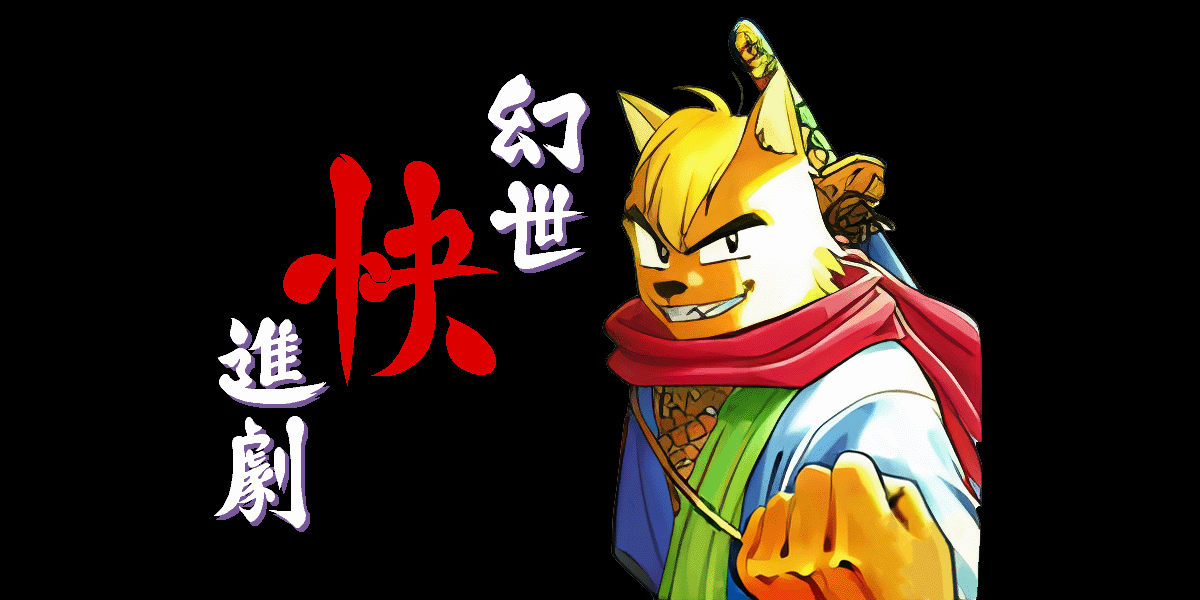
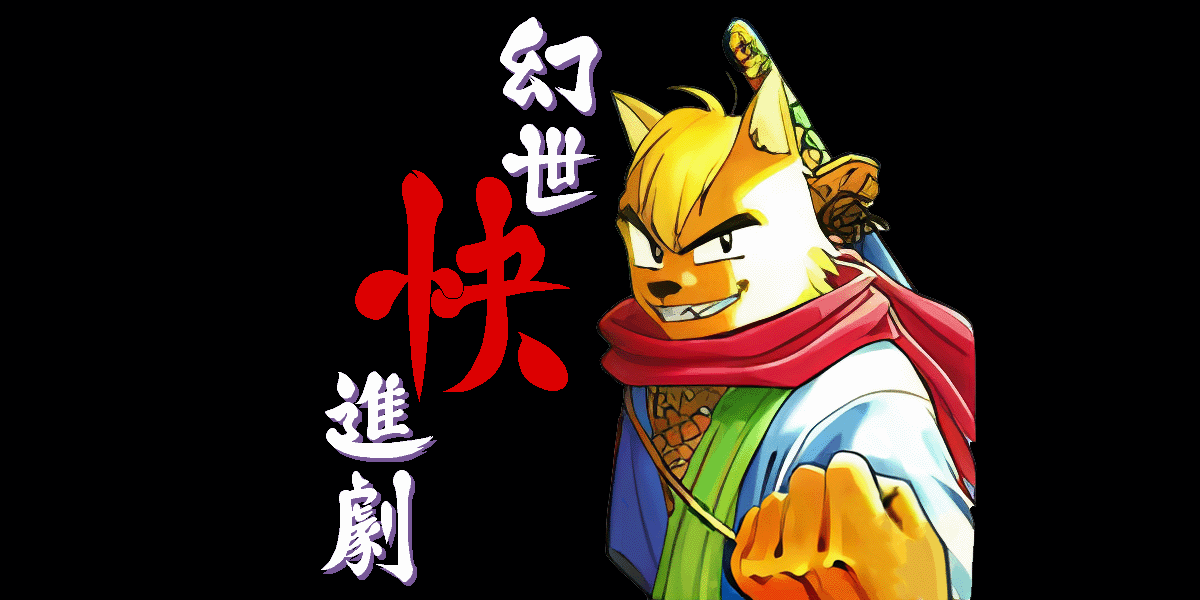
OG 이미지 배포 누락 수정, Twitter 카드·OG 메타데이터 보강

Changed region(s): [[0.185, 0.03, 0.8325, 1.0]]

diff --git a/index.html b/index.html
@@ -11,14 +11,24 @@
     <meta name="theme-color" content="#000000" />
     <meta name="description" content="환세쾌진극(Compile, 1996/97)을 웹 브라우저에서 바로 플레이할 수 있는 비영리 복원·보존 프로젝트입니다. 한국어와 일본어를 함께 지원하고 모바일 터치로도 즐길 수 있습니다." />
     <meta name="keywords" content="환세쾌진극, 幻世快進劇, Compile, 컴파일, 웹 게임, 레트로 게임, 복원, 환세 시리즈, gensei, kaisin" />
+    <link rel="canonical" href="https://kaisin.atah.io/" />
     <meta property="og:title" content="환세쾌진극 : atah.io" />
     <meta property="og:type" content="website" />
-    <link rel="canonical" href="https://kaisin.atah.io/" />
     <meta property="og:url" content="https://kaisin.atah.io/" />
-    <meta property="og:image" content="https://kaisin.atah.io/thumbnail-kaisin.png">
     <meta property="og:description" content="환세쾌진극(Compile, 1996/97)을 웹 브라우저에서 바로 플레이할 수 있는 비영리 복원·보존 프로젝트입니다. 한국어와 일본어를 함께 지원하고 모바일 터치로도 즐길 수 있습니다." />
+    <meta property="og:image" content="https://kaisin.atah.io/thumbnail-kaisin.png" />
+    <meta property="og:image:type" content="image/png" />
+    <meta property="og:image:width" content="1200" />
+    <meta property="og:image:height" content="600" />
+    <meta property="og:image:alt" content="환세쾌진극" />
     <meta property="og:site_name" content="atah.io" />
     <meta property="og:locale" content="ko_KR" />
+    <meta property="og:locale:alternate" content="ja_JP" />
+    <meta name="twitter:card" content="summary_large_image" />
+    <meta name="twitter:title" content="환세쾌진극 : atah.io" />
+    <meta name="twitter:description" content="환세쾌진극(Compile, 1996/97)을 웹 브라우저에서 바로 플레이할 수 있는 비영리 복원·보존 프로젝트입니다. 한국어와 일본어를 함께 지원하고 모바일 터치로도 즐길 수 있습니다." />
+    <meta name="twitter:image" content="https://kaisin.atah.io/thumbnail-kaisin.png" />
+    <meta name="twitter:image:alt" content="환세쾌진극" />
     <!-- Google Tag Manager -->
     <script>if (!["localhost", "127.0.0.1"].includes(location.hostname)) {(function(w,d,s,l,i){w[l]=w[l]||[];w[l].push({'gtm.start':
     new Date().getTime(),event:'gtm.js'});var f=d.getElementsByTagName(s)[0],

diff --git a/tools/pack.ts b/tools/pack.ts
@@ -5,5 +5,5 @@ const root = resolve(import.meta.dirname, "..");
 const out = join(root, "site");
 rmSync(out, { recursive: true, force: true });
 mkdirSync(out, { recursive: true });
-for (const name of ["index.html", "robots.txt", "sitemap.xml", "dist", "assets"]) cpSync(join(root, name), join(out, name), { recursive: true });
+for (const name of ["index.html", "robots.txt", "sitemap.xml", "thumbnail-kaisin.png", "dist", "assets"]) cpSync(join(root, name), join(out, name), { recursive: true });
 console.log(`site: ${out}`);
